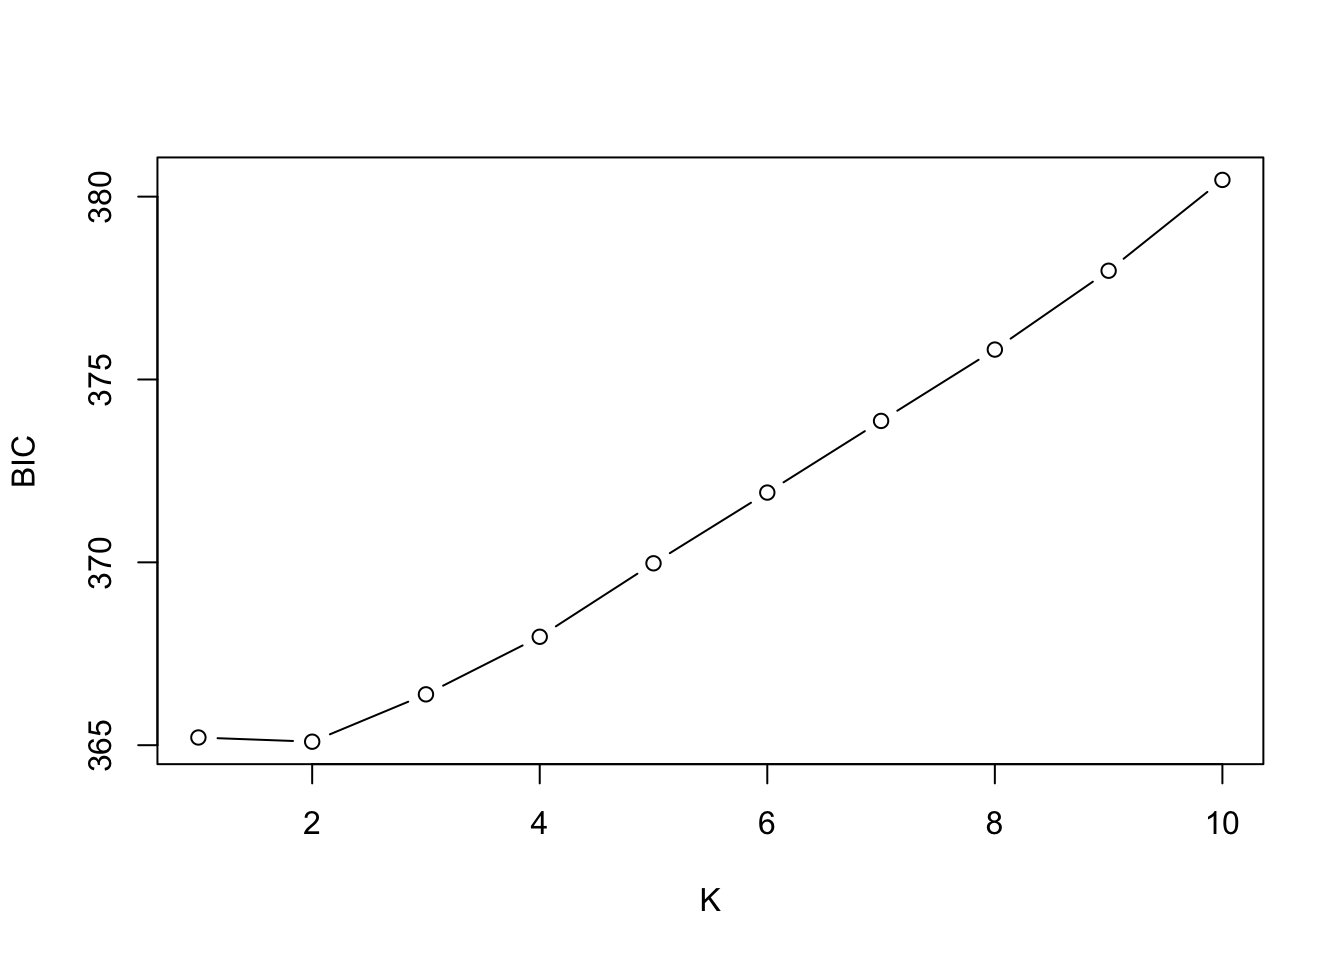
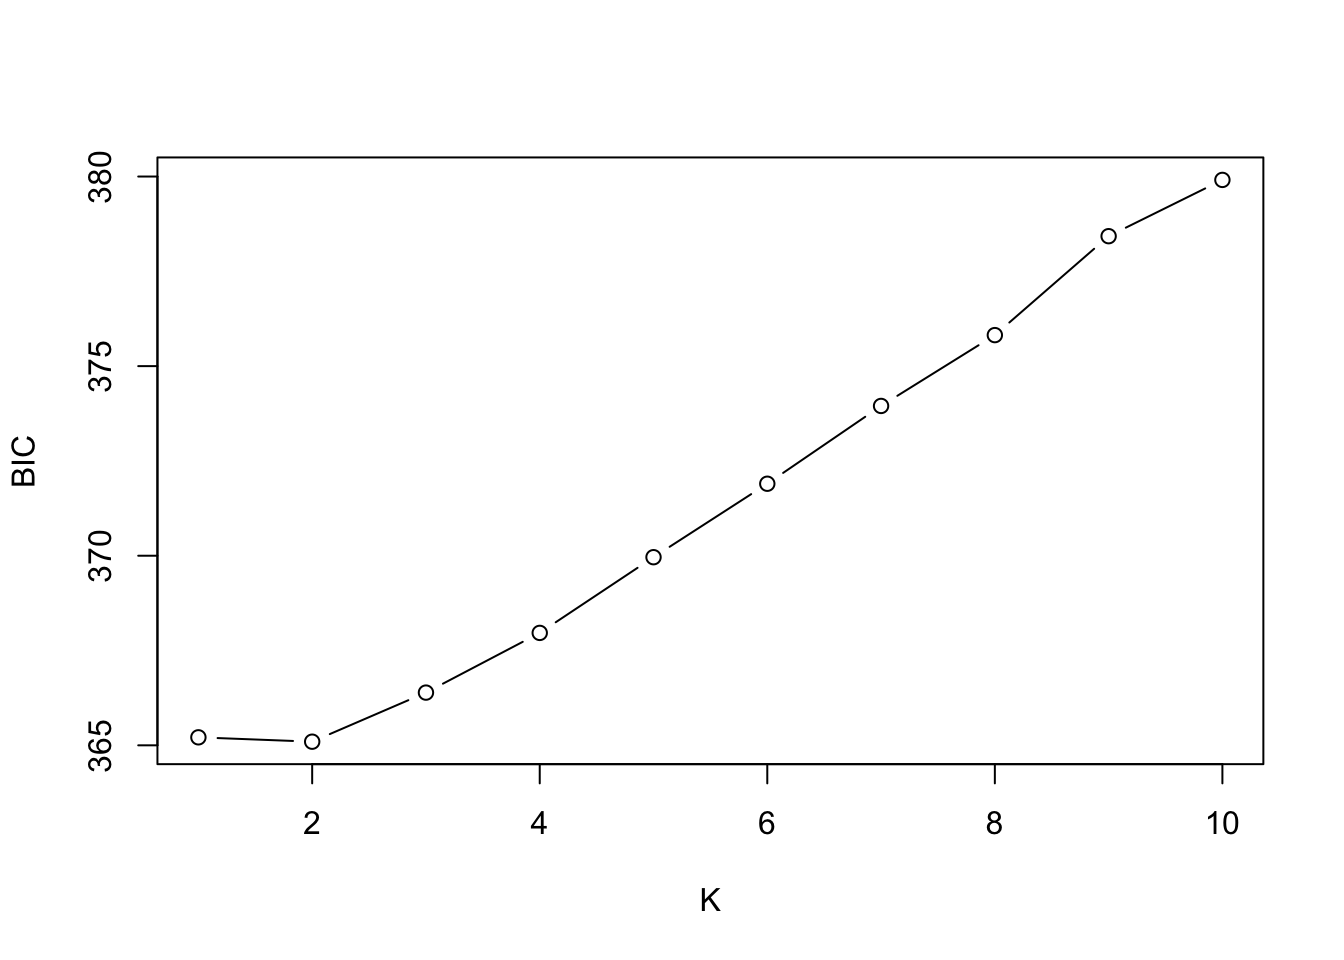
fix alignment issue

diff --git a/docs/structure.html b/docs/structure.html
@@ -429,25 +429,25 @@ NULL
 
 $grp
     002     003     004 16_0002 16_0003 16_0007    LZ19    LZ49    LZA9    LZC9 
-      2       2       2       1       1       1       2       2       2       2 
+      1       1       1       2       2       2       1       1       1       1 
    LZD9    LZS9    LZT9    LZX9    LZZ9    MZ19    MZ29    MZ59    MZ69    MZ89 
-      2       2       2       2       2       2       2       2       2       2 
-   MZ99    MZC9    MZD9    MZE9    MZG9    MZI9    MZM9    MZP9    MZQ9    MZS9 
-      2       2       2       2       2       2       2       2       2       2 
-   MZT9    MZU9    MZV9    MZW9    MZY9    NZ49    NZ59    NZ69    NZ79    NZA9 
-      2       2       2       2       2       2       2       2       2       2 
-   NZB9    NZC9    NZE9    NZF9    NZG9    NZK9    OZ19    PZC9    PZX9    RZT9 
-      2       2       2       2       2       2       2       2       2       1 
-   RZU9    SZ19    SZ69    SZ79    SZ89    SZC9    SZE9    SZF9    SZJ9    SZK9 
       1       1       1       1       1       1       1       1       1       1 
-   SZM9    TZ49    TZ89    TZCJ    TZU9    TZZ9    UZ1J    UZ2J    UZ3J    UZ7J 
-      1       1       1       2       1       1       2       2       2       2 
-   UZ8J    UZAJ    UZDJ    UZFJ    UZGJ    UZIJ    UZJJ    UZZJ    WZ1J    ZZY8 
+   MZ99    MZC9    MZD9    MZE9    MZG9    MZI9    MZM9    MZP9    MZQ9    MZS9 
+      1       1       1       1       1       1       1       1       1       1 
+   MZT9    MZU9    MZV9    MZW9    MZY9    NZ49    NZ59    NZ69    NZ79    NZA9 
+      1       1       1       1       1       1       1       1       1       1 
+   NZB9    NZC9    NZE9    NZF9    NZG9    NZK9    OZ19    PZC9    PZX9    RZT9 
+      1       1       1       1       1       1       1       1       1       2 
+   RZU9    SZ19    SZ69    SZ79    SZ89    SZC9    SZE9    SZF9    SZJ9    SZK9 
       2       2       2       2       2       2       2       2       2       2 
+   SZM9    TZ49    TZ89    TZCJ    TZU9    TZZ9    UZ1J    UZ2J    UZ3J    UZ7J 
+      2       2       2       1       2       2       1       1       1       1 
+   UZ8J    UZAJ    UZDJ    UZFJ    UZGJ    UZIJ    UZJJ    UZZJ    WZ1J    ZZY8 
+      1       1       1       1       1       1       1       1       1       1 
 Levels: 1 2
 
 $size
-[1] 19 61</code></pre>
+[1] 61 19</code></pre>
 </div>
 </div>
 <p>We can visualize these clusters with a simply color aesthetic, which gives you unsurprising individual assignment:</p>
@@ -514,16 +514,16 @@ $eig (eigenvalues): 2986  vector    length content
 <pre><code># A tibble: 160 × 3
    sample  cluster ancestry
    &lt;chr&gt;   &lt;chr&gt;      &lt;dbl&gt;
- 1 002     1       7.57e-39
- 2 002     2       1   e+ 0
- 3 003     1       1.04e-49
- 4 003     2       1   e+ 0
- 5 004     1       1.54e-46
- 6 004     2       1   e+ 0
- 7 16_0002 1       1   e+ 0
- 8 16_0002 2       1.05e-47
- 9 16_0003 1       1   e+ 0
-10 16_0003 2       2.19e-50
+ 1 002     1       1   e+ 0
+ 2 002     2       7.57e-39
+ 3 003     1       1   e+ 0
+ 4 003     2       1.04e-49
+ 5 004     1       1   e+ 0
+ 6 004     2       1.54e-46
+ 7 16_0002 1       1.05e-47
+ 8 16_0002 2       1   e+ 0
+ 9 16_0003 1       2.19e-50
+10 16_0003 2       1   e+ 0
 # ℹ 150 more rows</code></pre>
 </div>
 </div>
@@ -560,9 +560,9 @@ $eig (eigenvalues): 2986  vector    length content
 <span id="cb29-11"><a href="#cb29-11" aria-hidden="true" tabindex="-1"></a>grp_auto<span class="sc">$</span>Kstat</span></code></pre></div><button title="Copy to Clipboard" class="code-copy-button"><i class="bi"></i></button></div>
 <div class="cell-output cell-output-stdout">
 <pre><code>     K=1      K=2      K=3      K=4      K=5      K=6      K=7      K=8 
-365.2108 365.0958 366.3905 367.9647 369.9738 371.9081 373.8672 375.8181 
+365.2108 365.0958 366.3905 367.9647 369.9612 371.8986 373.9500 375.8181 
      K=9     K=10 
-377.9740 380.4575 </code></pre>
+378.4270 379.9109 </code></pre>
 </div>
 <div class="code-copy-outer-scaffold"><div class="sourceCode cell-code" id="cb31"><pre class="sourceCode r code-with-copy"><code class="sourceCode r"><span id="cb31-1"><a href="#cb31-1" aria-hidden="true" tabindex="-1"></a><span class="co"># plot!</span></span>
 <span id="cb31-2"><a href="#cb31-2" aria-hidden="true" tabindex="-1"></a><span class="fu">plot</span>(</span>

diff --git a/docs/index.html b/docs/index.html
@@ -316,7 +316,7 @@ ul.task-list li input[type="checkbox"] {
 <td>4/20 - 4/24</td>
 <td>Detecting Natural Selection</td>
 <td><ul>
-<li><a href="https://doi.org/10.1038/s41467-025-62811-w">Meek et al.&nbsp;2025</a> <a href="papers/meek_et_al_2025.pdf">(<strong>pdf</strong>)</a> |</li>
+<li><a href="https://doi.org/10.1038/s41467-025-62811-w">Meek et al.&nbsp;2025</a> <a href="papers/meek_et_al_2025.pdf">(<strong>pdf</strong>)</a></li>
 </ul></td>
 </tr>
 <tr class="even">
